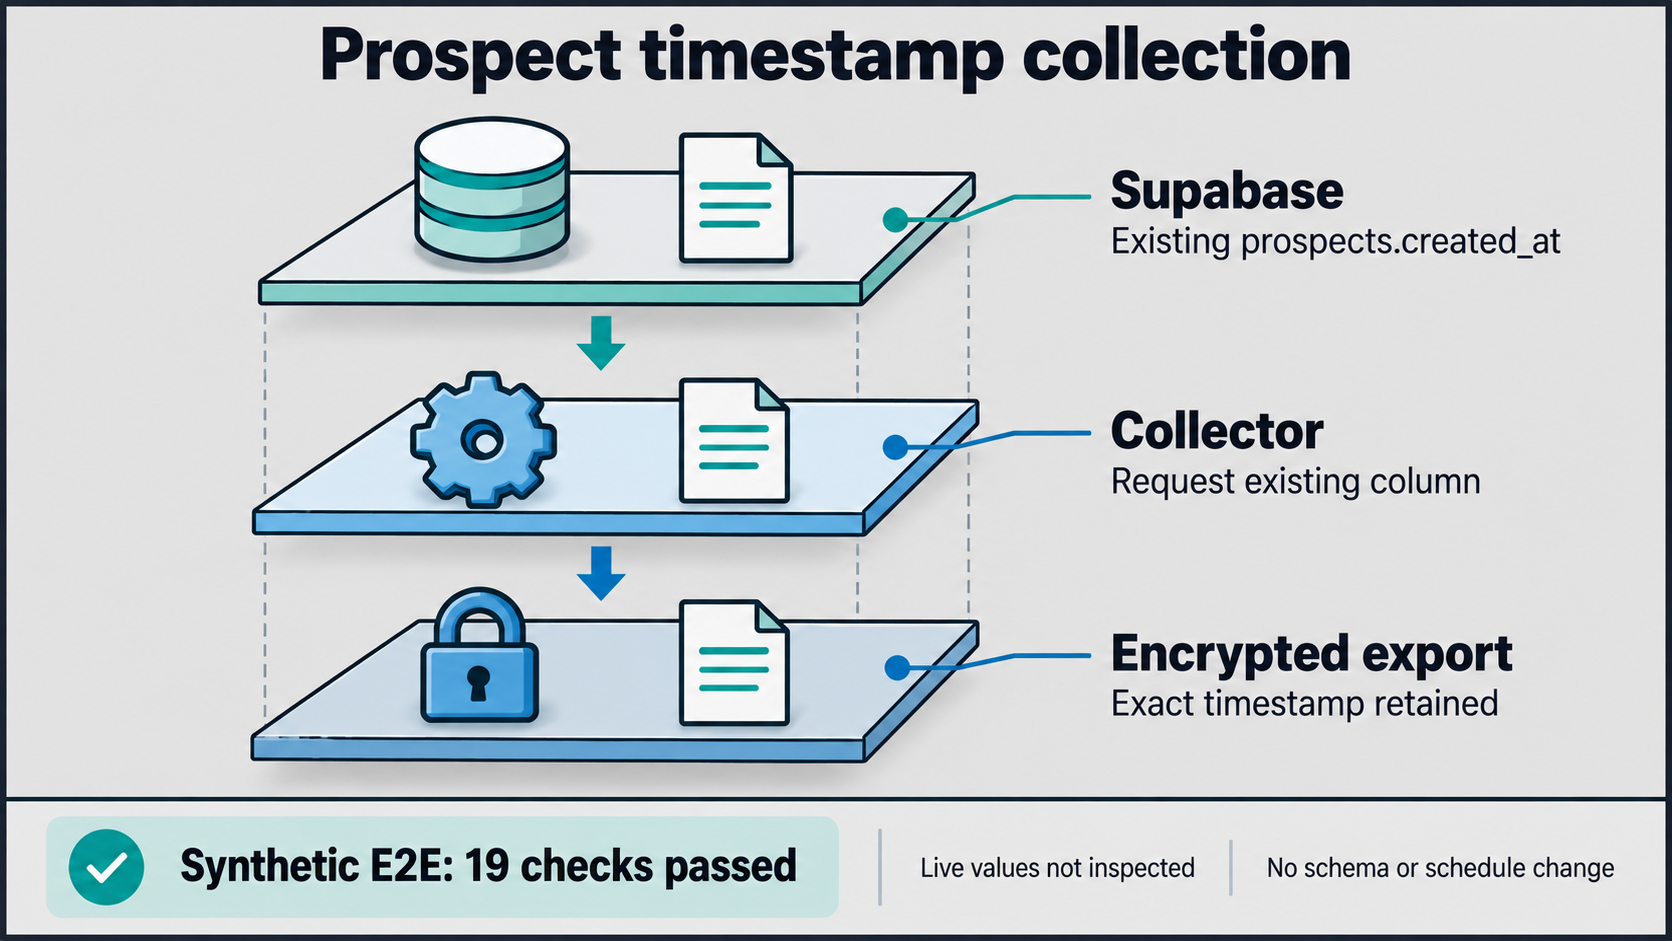
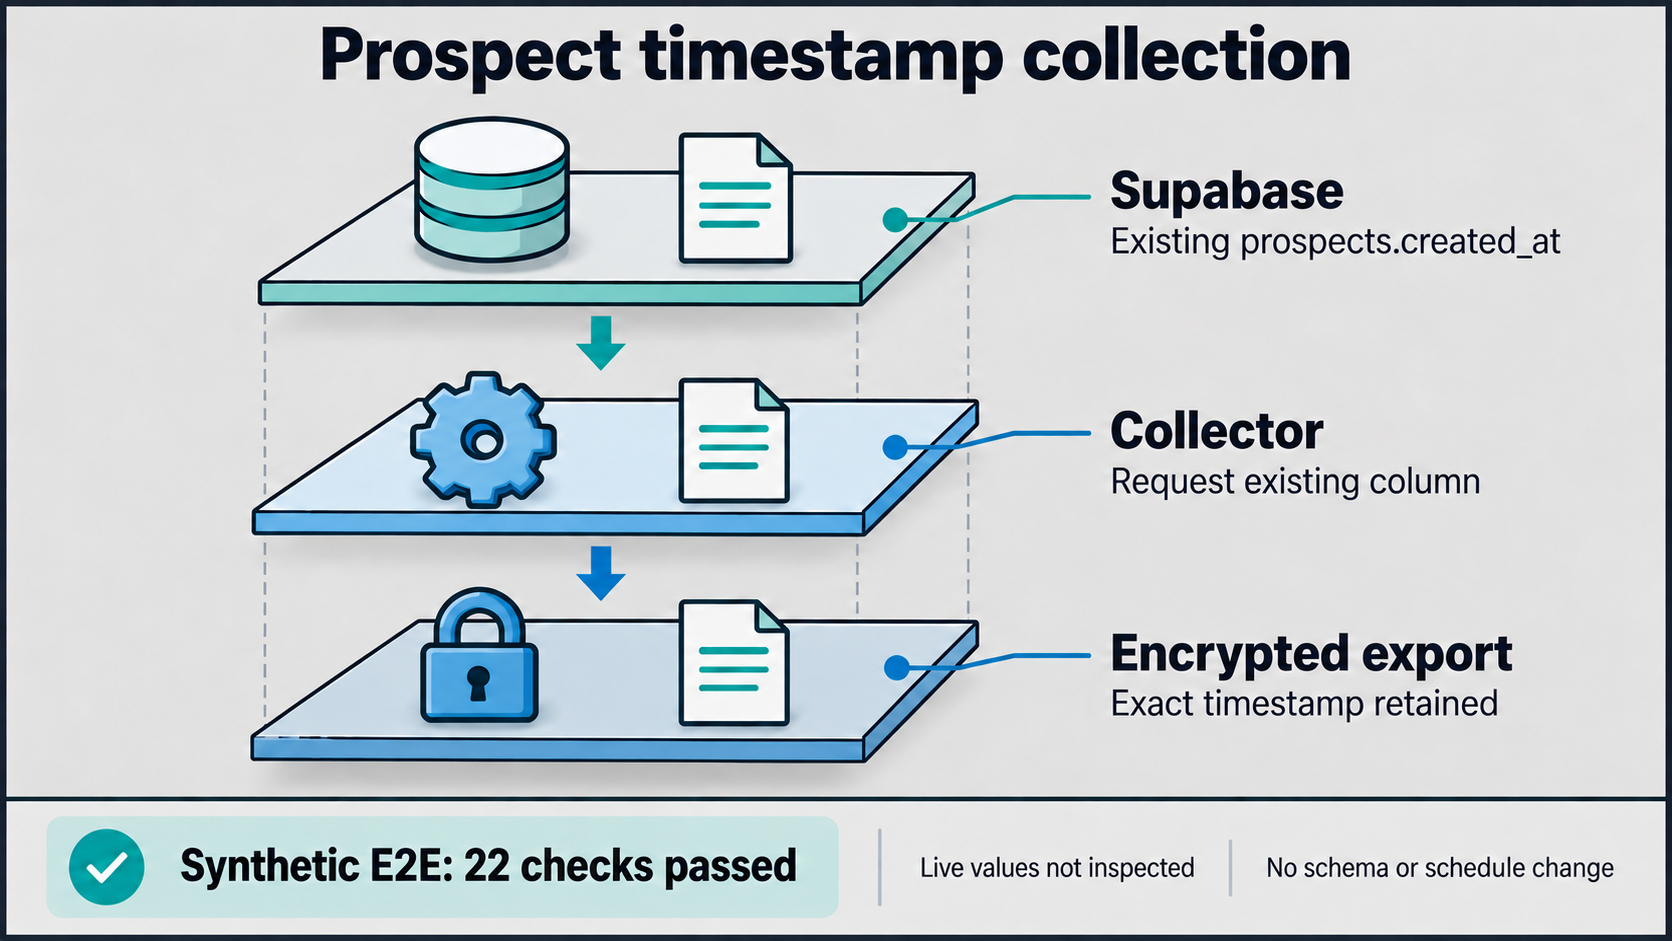
fix(collector): verify failure evidence
Attribute negative synthetic cases to their expected collection error and let unrelated collection/encryption failures fail the run. Invalidate prior evidence before certificate generation and publish passed status only after all verdicts succeed.

Both review defects were reproduced before the correction. All 22 HTTP/CMS verdicts, 21 repository tests, scoped Ruff, 10-file mypy and package builds pass. Update repeatable evidence, docs and the system infographic. Production collector behavior is unchanged.

diff --git a/diagnostics/action-report-private-source-20261002/e2e_private_source.py b/diagnostics/action-report-private-source-20261002/e2e_private_source.py
@@ -15,7 +15,7 @@ from unittest.mock import patch
 
 import httpx
 
-from linkedin_mdp_mcp.client import LinkedInMDPClient
+from linkedin_mdp_mcp.client import LinkedInAPIError, LinkedInMDPClient
 from linkedin_mdp_mcp.supabase_client import SupabaseClient
 
 HERE = Path(__file__).resolve().parent
@@ -26,6 +26,14 @@ collector = importlib.util.module_from_spec(spec)
 spec.loader.exec_module(collector)
 
 MARKER = "PRIVATE_SYNTHETIC_MEMBER_ONLY_493829"
+EXPECTED_FAILURES: dict[str, tuple[type[Exception], str]] = {
+    "unavailable": (RuntimeError, "private source collection failed"),
+    "malformed": (LinkedInAPIError, "LinkedIn API error 0: malformed snapshot element"),
+    "domain": (LinkedInAPIError, "LinkedIn API error 0: snapshot element domain does not match request"),
+    "truncated": (RuntimeError, "private source collection failed"),
+    "escaped_domain": (LinkedInAPIError, "LinkedIn API error 0: snapshot next link changed request scope"),
+    **{case: (RuntimeError, "private source collection failed") for case in ("db_cap", "db_malformed", "db_missing_count", "db_changed_count", "db_duplicate")},
+}
 
 async def exercise(case: str, cert: Path, target: Path) -> tuple[bytes | None, list[str]]:
     """Run production HTTP clients with complete or deliberately defective pages."""
@@ -75,17 +83,23 @@ async def exercise(case: str, cert: Path, target: Path) -> tuple[bytes | None, l
     linkedin = LinkedInMDPClient("synthetic", http=httpx.AsyncClient(transport=httpx.MockTransport(provider)))
     store = SupabaseClient("https://db.example.test", "synthetic", http=httpx.AsyncClient(transport=httpx.MockTransport(database)))
     try:
-        bundle = await collector.collect_sources(linkedin, store, page_size=1, max_db_pages=2, snapshot_pages=1)
+        try:
+            bundle = await collector.collect_sources(linkedin, store, page_size=1, max_db_pages=2, snapshot_pages=1)
+        except Exception as error:  # noqa: BLE001
+            expected = EXPECTED_FAILURES.get(case)
+            if expected is None or type(error) is not expected[0] or str(error) != expected[1]:
+                raise RuntimeError("unexpected synthetic collection failure") from None
+            return None, methods
         collector.encrypt_bundle(bundle, cert, target)
         return target.read_bytes(), methods
-    except Exception:  # noqa: BLE001
-        return None, methods
     finally:
         await linkedin._http.aclose()
         await store._http.aclose()
 
-async def main() -> None:
+async def main(evidence: Path | None = None) -> None:
     """Require real encryption roundtrip, safe failures and an artifact-only result."""
+    evidence = HERE / "e2e-evidence.json" if evidence is None else evidence
+    evidence.write_text(json.dumps({"synthetic_only": True, "run_status": "failed", "scenarios": {}}, indent=2) + "\n")
     verdicts: dict[str, bool] = {}
     with tempfile.TemporaryDirectory() as folder:
         tmp = Path(folder)
@@ -110,10 +124,24 @@ async def main() -> None:
         zero = await asyncio.to_thread(subprocess.run, ["openssl", "cms", "-decrypt", "-binary", "-inform", "DER", "-in", str(tmp / "empty.cms"), "-inkey", str(key), "-recip", str(cert)], capture_output=True, check=False)
         zero_bundle = json.loads(zero.stdout) if zero.returncode == 0 else {}
         verdicts["successful_empty_sources_encrypt"] = empty is not None and set(methods) == {"GET"} and zero_bundle.get("prospects", {}).get("row_count") == 0 and zero_bundle.get("events", {}).get("row_count") == 0 and all(not value["rows"] and value["page_count"] == 1 for value in zero_bundle.get("snapshots", {}).values())
-        for case in ("unavailable", "malformed", "domain", "truncated", "escaped_domain", "db_cap", "db_malformed", "db_missing_count", "db_changed_count", "db_duplicate"):
+        for case in EXPECTED_FAILURES:
             target = tmp / f"{case}.cms"
             encrypted, methods = await exercise(case, cert, target)
             verdicts[f"{case}_rejected_without_artifact"] = encrypted is None and not target.exists() and set(methods) == {"GET"}
+        with patch.object(collector, "collect_sources", side_effect=RuntimeError("unrelated synthetic fault")):
+            try:
+                await exercise("db_missing_count", cert, tmp / "unrelated.cms")
+            except RuntimeError as error:
+                verdicts["unexpected_failure_not_counted_as_rejection"] = str(error) == "unexpected synthetic collection failure"
+            else:
+                verdicts["unexpected_failure_not_counted_as_rejection"] = False
+        with patch.object(collector, "collect_sources", return_value={}), patch.object(collector, "encrypt_bundle", side_effect=RuntimeError("private source collection failed")):
+            try:
+                await exercise("db_missing_count", cert, tmp / "encrypt-fault.cms")
+            except RuntimeError as error:
+                verdicts["encryption_failure_not_counted_as_rejection"] = str(error) == "private source collection failed"
+            else:
+                verdicts["encryption_failure_not_counted_as_rejection"] = False
         async def synthetic_export(certificate: Path, target: Path) -> None:
             """Exercise the actual collector/encryptor under the CLI verdict boundary."""
             value, _ = await exercise("complete", certificate, target)
@@ -132,7 +160,15 @@ async def main() -> None:
             code = await asyncio.to_thread(collector.main)
         verdicts["cli_fixed_failure_log_without_plaintext"] = code == 1 and logged.getvalue() == "private source export: failed\n" and not (tmp / "failed.cms").exists()
         verdicts["no_plaintext_source_file"] = all(path.suffix != ".json" for path in tmp.iterdir())
-    (HERE / "e2e-evidence.json").write_text(json.dumps({"synthetic_only": True, "scenarios": verdicts}, indent=2) + "\n")
+        stale = tmp / "stale-evidence.json"
+        stale.write_text(json.dumps({"synthetic_only": True, "run_status": "passed", "scenarios": {"stale": True}}))
+        with patch.object(subprocess, "run", return_value=subprocess.CompletedProcess([], 1, b"", b"")):
+            try:
+                await main(stale)
+            except RuntimeError:
+                pass
+        verdicts["early_failure_invalidates_stale_evidence"] = json.loads(stale.read_text()) == {"synthetic_only": True, "run_status": "failed", "scenarios": {}}
+    evidence.write_text(json.dumps({"synthetic_only": True, "run_status": "passed" if all(verdicts.values()) else "failed", "scenarios": verdicts}, indent=2) + "\n")
     if not all(verdicts.values()):
         raise RuntimeError("private source E2E failed")
     print("private source synthetic E2E: verified")

diff --git a/diagnostics/action-report-private-source-20261002/README.md b/diagnostics/action-report-private-source-20261002/README.md
@@ -2,4 +2,4 @@
 
 The collector reads the existing `prospects.created_at` column and keeps its exact value in the encrypted prospect rows. A missing value stays missing. This slice changes no schema, workflow, schedule, or outreach behavior.
 
-Run `PYTHONPATH=src python diagnostics/action-report-private-source-20261002/e2e_private_source.py` from the repository root. The test uses synthetic HTTP responses with the actual clients and OpenSSL CMS roundtrip. Its database mock applies the requested `select` columns, so omitting `created_at` from the collector projection fails the timestamp check. It writes only fixed synthetic verdicts to `e2e-evidence.json`; the temporary certificate, key, and ciphertext are removed when the test ends. The test does not contact live services.
+Run `PYTHONPATH=src python diagnostics/action-report-private-source-20261002/e2e_private_source.py` from the repository root. The test uses synthetic HTTP responses with the actual clients and OpenSSL CMS roundtrip. Its database mock applies the requested `select` columns, so omitting `created_at` from the collector projection fails the timestamp check. Negative cases check their expected error type and message, and injected unrelated collection and encryption faults must fail independently. The evidence file begins each run with `run_status: failed` and changes to `passed` only after all verdicts pass, so an early certificate failure cannot leave stale success evidence. It writes only fixed synthetic verdicts to `e2e-evidence.json`; the temporary certificate, key, and ciphertext are removed when the test ends. The test does not contact live services.

diff --git a/PLANS.md b/PLANS.md
@@ -12,6 +12,8 @@ Throughput checkpoint: one owner holds this isolated checkout and its coupled co
 
 Validation: the timestamp scenario failed before the projection edit and all 19 synthetic verdicts passed afterward. Scoped Ruff and mypy passed, the full 21-test repository suite passed in an isolated runtime using the declared dependencies, and source/wheel builds passed. The initially installed local MCP package lacked `Client`; using the declared project runtime resolved that collection failure. Independent read-only review found no actionable issues.
 
+PR review correction: two synthetic failure injections first showed that an unrelated encryption fault could count as an expected negative rejection and an early certificate failure preserved prior all-true evidence. The E2E now attributes each negative case to its expected collection error, lets encryption failures propagate, and records failed run status before certificate generation. All 22 synthetic verdicts, 21 isolated repository tests, scoped Ruff, 10-file mypy, and wheel build pass after the correction.
+
 ## Inbox evidence and actionable report
 
 Summary: add the first reviewable prerequisite for the owner's two-list report. Preserve private message observations for existing prospects without treating unknown invitation notes as confirmed DMs. The complete desired report contract is in `docs/action-report-contract.md`.

diff --git a/infographic/prospect-created-at/structured-content.md b/infographic/prospect-created-at/structured-content.md
@@ -2,4 +2,4 @@
 
 Learning objective: understand where the existing timestamp was dropped and how it now survives collection.
 
-Three separated layers: Supabase existing prospects.created_at; collector request existing column; encrypted export exact timestamp retained. Verification band: synthetic E2E 19 checks passed. Scope: live values not inspected; no schema or schedule change.
+Three separated layers: Supabase existing prospects.created_at; collector request existing column; encrypted export exact timestamp retained. Verification band: synthetic E2E 22 checks passed. Scope: live values not inspected; no schema or schedule change.

diff --git a/infographic/prospect-created-at/prompts/03-infographic-prospect-created-at.md b/infographic/prospect-created-at/prompts/03-infographic-prospect-created-at.md
@@ -1,0 +1,1 @@
+Edit the provided infographic. Preserve the complete composition, all colors and every other label. Change only the bottom verification label from "Synthetic E2E: 19 checks passed" to "Synthetic E2E: 22 checks passed". No other text changes. Keep opaque neutral canvas and high contrast. Do not add dates, row data, examples or extra labels.

diff --git a/infographic/prospect-created-at/source.md b/infographic/prospect-created-at/source.md
@@ -2,6 +2,6 @@ Prospect timestamp collection
 Supabase: existing prospects.created_at
 Collector: request existing column
 Encrypted export: exact timestamp retained
-Synthetic E2E: 19 checks passed
+Synthetic E2E: 22 checks passed
 Live values not inspected
 No schema or schedule change
